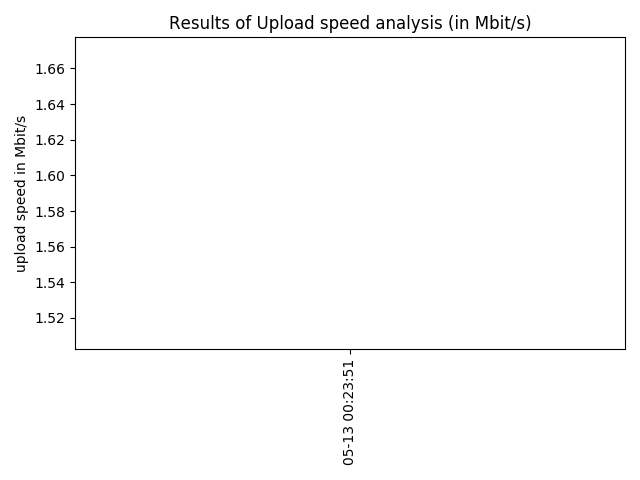
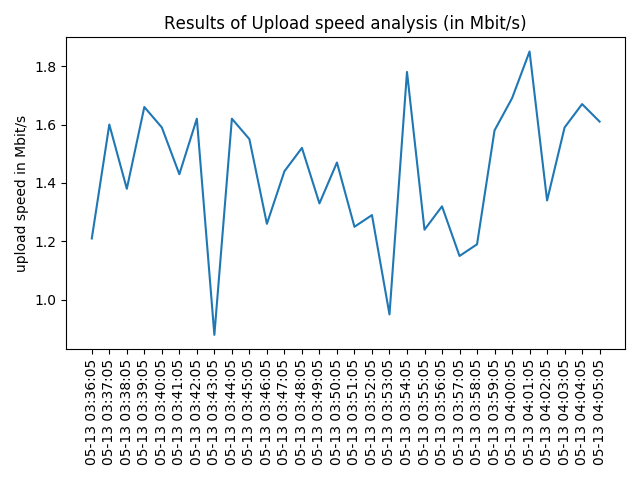
clean

diff --git a/overtime_test.py b/overtime_test.py
@@ -3,13 +3,9 @@ import sys
 import speedtest
 import time
 try:
-    import urllib.request
-except:
-    print("You need the urllib package")
-try:
     import matplotlib.pyplot as plt
 except:
-    print("You need the matplotlib package")
+    print("You need the matplotlib package to get the graphs")
 
 
 # fix speedtest library
@@ -47,24 +43,27 @@ def get_input():
     return 10, 1
 
 def make_plots(d, u, t):
-    if not(os.path.isdir("result-graphs")):
-        os.mkdir("result-graphs")
-    if d != [] :
-        plt.figure()
-        plt.plot(t,d)
-        plt.title("Results of Download speed analysis (in Mbit/s)",loc='center')
-        plt.xticks(rotation='vertical')
-        plt.ylabel('download speed in Mbit/s')
-        plt.tight_layout()
-        plt.savefig('result-graphs/download_speeds.png')
-    if u != []:
-        plt.figure()
-        plt.plot(t,u)
-        plt.title("Results of Upload speed analysis (in Mbit/s)",loc='center')
-        plt.xticks(rotation='vertical')
-        plt.ylabel('upload speed in Mbit/s')
-        plt.tight_layout()
-        plt.savefig('result-graphs/upload_speeds.png')
+    try:
+        if not(os.path.isdir("result-graphs")):
+            os.mkdir("result-graphs")
+        if d != [] :
+            plt.figure()
+            plt.plot(t,d)
+            plt.title("Results of Download speed analysis (in Mbit/s)",loc='center')
+            plt.xticks(rotation='vertical')
+            plt.ylabel('download speed in Mbit/s')
+            plt.tight_layout()
+            plt.savefig('result-graphs/download_speeds.png')
+        if u != []:
+            plt.figure()
+            plt.plot(t,u)
+            plt.title("Results of Upload speed analysis (in Mbit/s)",loc='center')
+            plt.xticks(rotation='vertical')
+            plt.ylabel('upload speed in Mbit/s')
+            plt.tight_layout()
+            plt.savefig('result-graphs/upload_speeds.png')
+    except :
+        print("could not create graphs because the matplotlib package is not installed")
 
 def overtime_test(overall, intervals):
     start = time.time()
@@ -73,26 +72,32 @@ def overtime_test(overall, intervals):
     downloads_lst = []
     uploads_lst = []
     i = 0
+    while get_time - start < overall*60:
+        before = time.time()
+        # chosen timestamp for a single test is right before the test rather than right after
+        datetimes.append((time.strftime('%Y-%m-%d %H:%M:%S', time.localtime(before)))[5:])
+        print(datetimes[-1], " --- starting speedtest n°", i)
+        st = get_speeds()
+        print("Results of test n°", i, " : Download = ", st[0], "Mbits/s ---- Upload = ", st[1], "Mbits/s\n")
+        downloads_lst.append(float(st[0]))
+        uploads_lst.append(float(st[1]))
+        after = time.time()
+        time.sleep(intervals*60 - (after - before))
+        get_time = time.time()
+        i += 1
+    make_plots(downloads_lst, uploads_lst, datetimes)
     try:
-        while get_time - start < overall*60:
-            before = time.time()
-            # chosen timestamp for a single test is right before the test rather than right after
-            datetimes.append((time.strftime('%Y-%m-%d %H:%M:%S', time.localtime(before)))[5:])
-            print(datetimes[-1], " --- starting speedtest n°", i)
-            st = get_speeds()
-            print("Results of test n°", i, " : Download = ", st[0], "Mbits/s ---- Upload = ", st[1], "Mbits/s")
-            downloads_lst.append(float(st[0]))
-            uploads_lst.append(float(st[1]))
-            after = time.time()
-            time.sleep(intervals*60 - (after - before))
-            get_time = time.time()
-            i += 1
-        make_plots(downloads_lst, uploads_lst, datetimes)
         os.system("open result-graphs/download_speeds.png result-graphs/upload_speeds.png")
-    except :
-        print("something went wrong, check your inputs")
+    except:
+        print("could not open graphs")
 
 if __name__ == "__main__":
     overall = input("For how long do you want to run this overtime speedtest? (answer in minutes) :  ")
     interval = input("Give a time interval (in minutes) to run a speedtest :  ")
-    overtime_test(float(overall), float(interval))
+    try :
+        if float(overall) > float(interval) and float(interval) >= 1:
+            overtime_test(float(overall), float(interval))
+        else :
+            print("your interval has to be greater than 1 minute and overall time has to be greater than interval")
+    except :
+        print("something went wrong")
